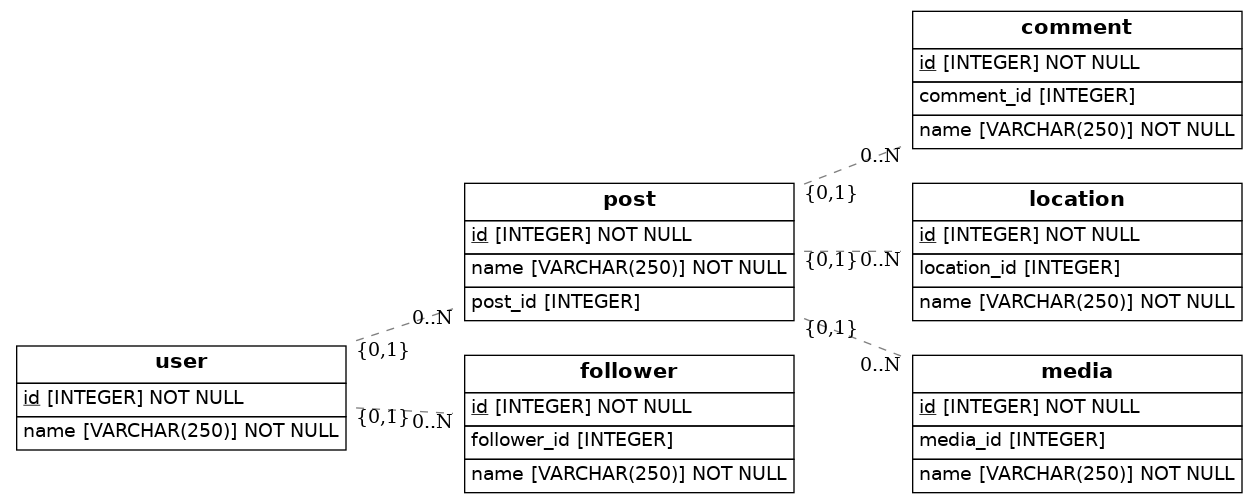
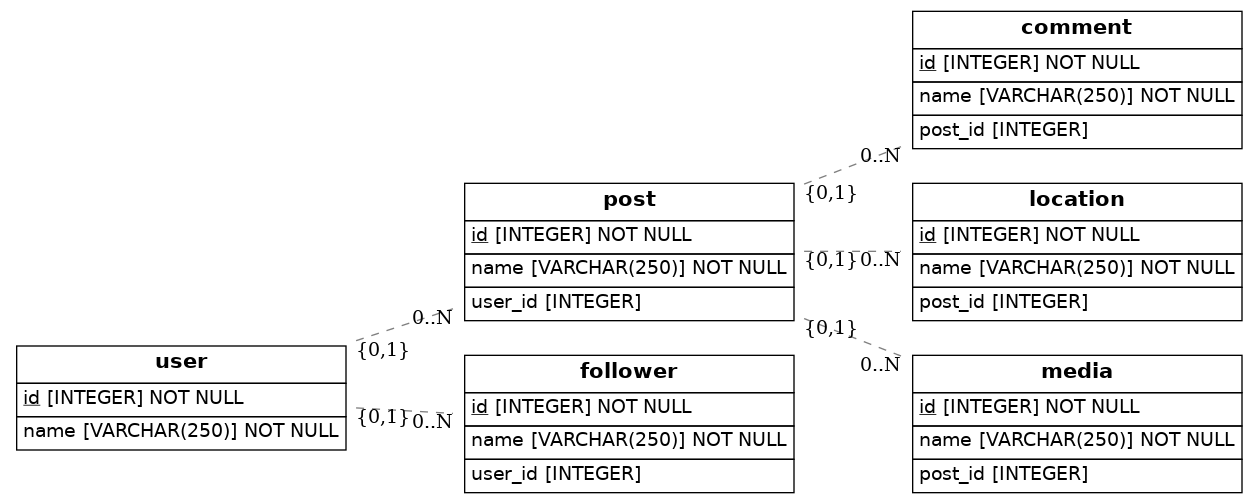
changes

diff --git a/src/models.py b/src/models.py
@@ -12,7 +12,7 @@ class User(Base):
     __tablename__ = 'user'
     id = Column(Integer, primary_key=True)
     name = Column(String(250), nullable=False)
-    post = db.relationship('post', backref = 'user', lazy=True)
+    post = relationship ("Post", backref = 'user', lazy=True)
     
 
 class Post(Base):
@@ -25,25 +25,25 @@ class Comment(Base):
     __tablename__ = 'comment'
     id = Column(Integer, primary_key=True)
     name = Column(String(250), nullable=False)
-    comment_id = Column(Integer, ForeignKey('post.id'))
+    post_id = Column(Integer, ForeignKey('post.id'))
 
 class Location(Base):
     __tablename__ = 'location'
     id = Column(Integer, primary_key=True)
     name = Column(String(250), nullable=False)
-    location_id = Column(Integer, ForeignKey('post.id'))
+    post_id = Column(Integer, ForeignKey('post.id'))
 
 class Media(Base):
     __tablename__ ='media'
     id = Column(Integer, primary_key=True)
     name = Column(String(250), nullable=False)
-    media_id = Column(Integer, ForeignKey('post.id'))
+    post_id = Column(Integer, ForeignKey('post.id'))
 
 class Follower(Base):
     __tablename__ = 'follower'
     id = Column(Integer, primary_key=True)
     name = Column(String(250), nullable=False)
-    follower_id = Column(Integer, ForeignKey('user.id'))
+    user_id = Column(Integer, ForeignKey('user.id'))
 
     def to_dict(self):
         return {}
